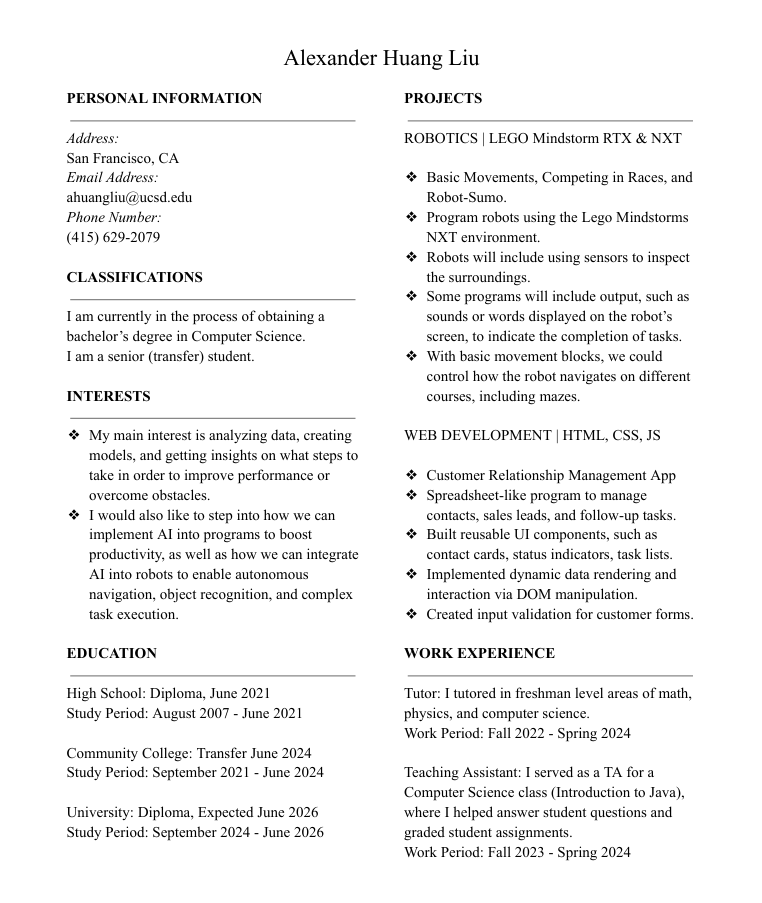
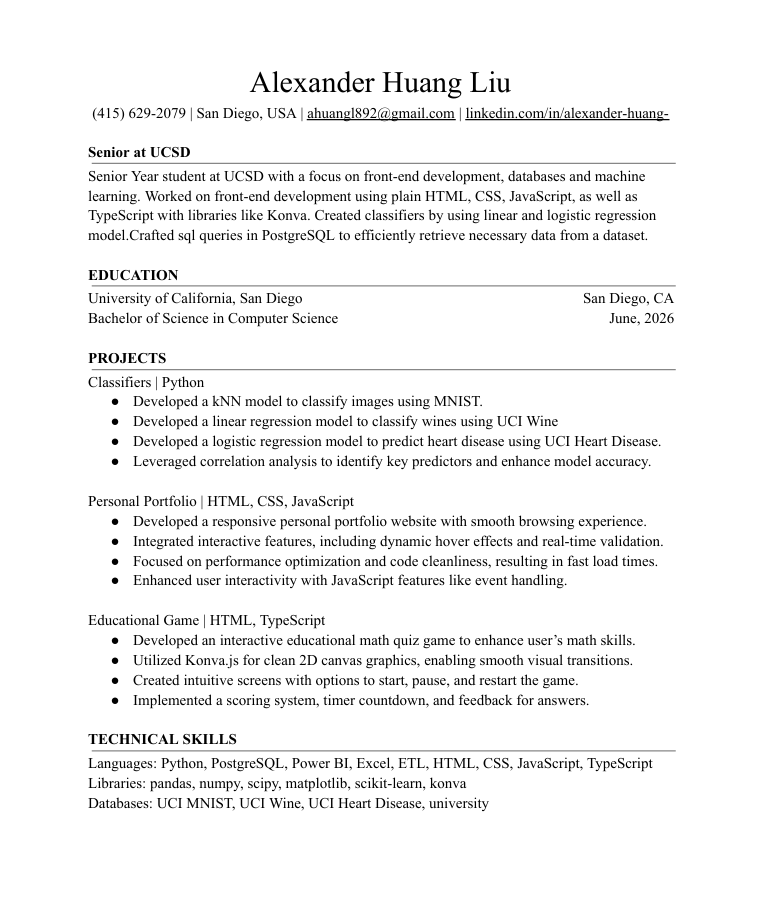
Updated the resume page with a new resume image.

Changed region(s): [[0.0908, 0.0622, 0.9079, 0.9644]]

diff --git a/resume.html b/resume.html
@@ -48,25 +48,6 @@
                 }
 
             }
-
-            .experience {
-                display: flex;
-                flex-direction: row;
-                flex-wrap: wrap;
-                align-items: space-evenly;
-                justify-content: center;
-                gap: 1rem;
-                width: 100%;
-
-                .experience-card {
-                    border: 2px solid black;
-                    border-radius: 10px;
-                    padding: 2rem;
-                    width: clamp(25rem, 100%, 45rem);
-                    text-align: center;
-                    font-size: var(--p-font-size);
-                }
-            }
         }
     </style>
 </head>
@@ -92,34 +73,15 @@
 
             <picture>
                 <source srcset="img/sample_resume.png" sizes="100vw" type="image/jpeg">
-                <img src="img/sample_resume.png" alt="A bridge with a warm sunset in the background.">
+                <img src="img/sample_resume.png"
+                    alt="Alexander's resume page with a description, education section, project section, and technical skill section.">
             </picture>
             <button>Download</button><br>
         </section>
 
-        <h2>Experience Details</h2>
-        <section class="experience">
-
-            <div class="experience-card">
-                <h3>Education</h3>
-                <p>I am currently pursuing a Computer Science bachelor's degree at UC San Diego!</p>
-            </div>
-
-            <div class="experience-card">
-                <h3>Teaching Assistant</h3>
-                <p>In progress...</p>
-            </div>
-
-            <div class="experience-card">
-                <h3>Tutor</h3>
-                <p>In progress...</p>
-            </div>
-        </section>
-    </main>
-
-    <footer>
-        <p>&copy; 2025 Made by Alexander Huang</p>
-    </footer>
+        <footer>
+            <p>&copy; 2025 Made by Alexander Huang</p>
+        </footer>
 </body>
 
 </html>

diff --git a/projects.html b/projects.html
@@ -32,6 +32,7 @@
                     border-radius: var(--border-radius);
                     padding: 1rem;
                     width: clamp(40rem, 50vw, 50rem);
+                    justify-content: center;
 
                     h3 {
                         font-size: 2rem;
